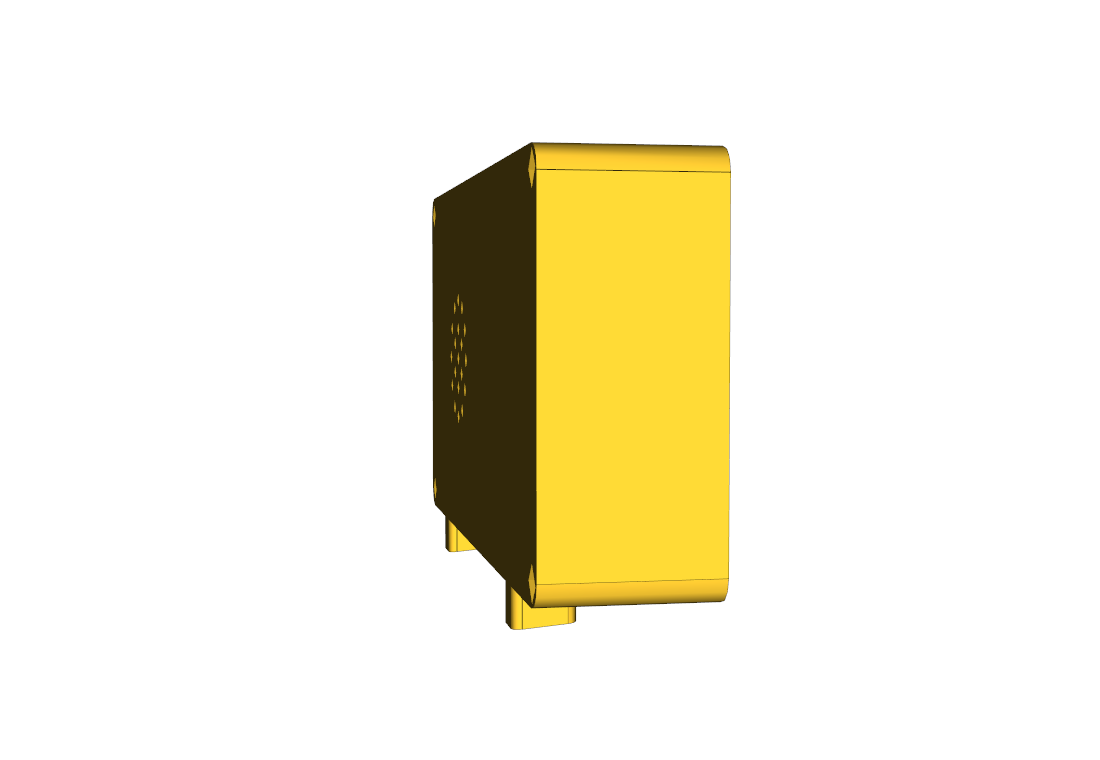
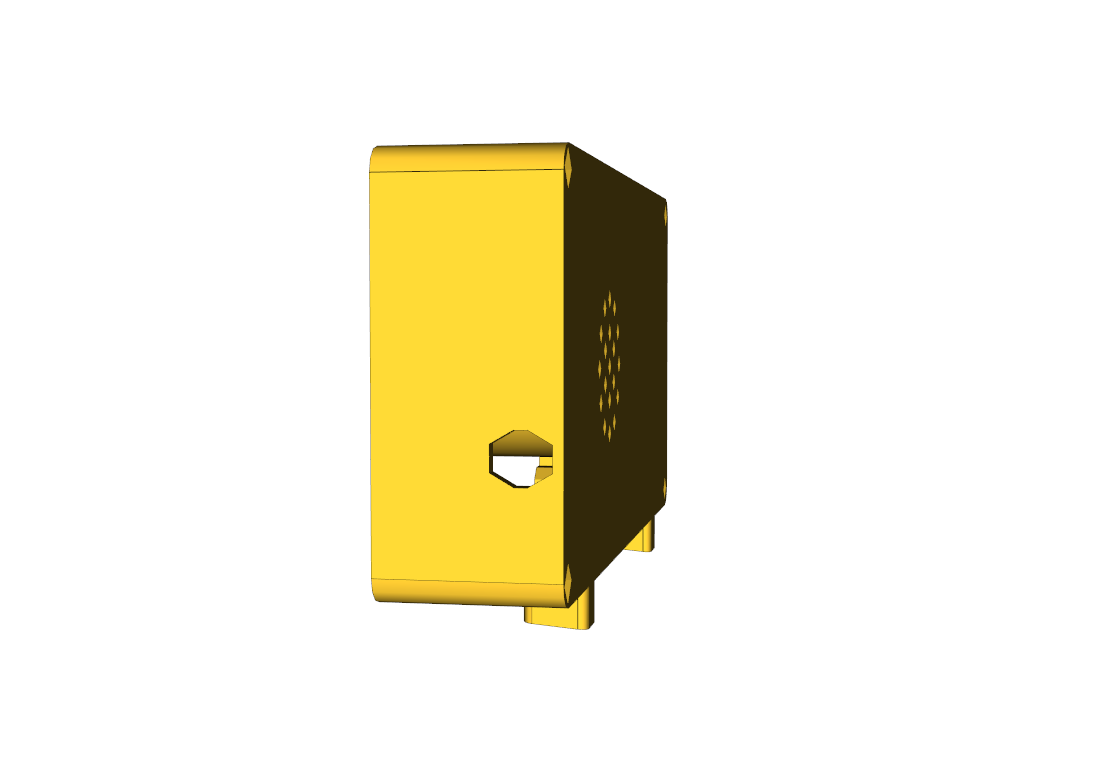
Mochila: la vista del jack mira al lado del USB-C

Changed region(s): [[0.3091, 0.1816, 0.68, 0.8474]]

diff --git a/carcasa/dac/vistas.py b/carcasa/dac/vistas.py
@@ -5,7 +5,7 @@ Vistas en PNG de la mochila para revisarla sin abrir un programa de CAD
   img/mochila_con_bateria.png  igual, con la batería (azul) y el DAC (morado)
   img/conjunto.png             frontal + mochila montados
   img/mochila_fondo.png        la mochila por fuera (rejilla, cajeados, patas)
-  img/jack.png                 el lateral derecho, con el agujero del jack
+  img/jack.png                 el lateral del USB-C, con el agujero del jack
 
 Uso:  python vistas.py
 """
@@ -78,4 +78,5 @@ if __name__ == "__main__":
          "mochila_con_bateria.png")
     foto([(frontal, AMARILLO), (mochila, OCRE)], (160, -170, 90), "conjunto.png")
     foto([(mochila, AMARILLO)], (220, 60, -80), "mochila_fondo.png")
-    foto([(mochila, AMARILLO)], (40, 220, 10), "jack.png")
+    # el jack está en la pared -Y (lado del USB-C): la cámara va por ese lado
+    foto([(mochila, AMARILLO)], (40, -220, 10), "jack.png")
